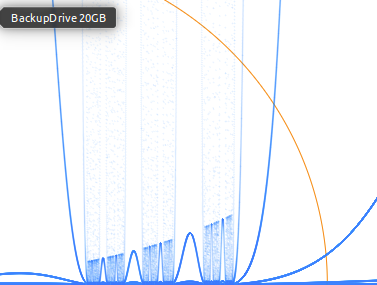
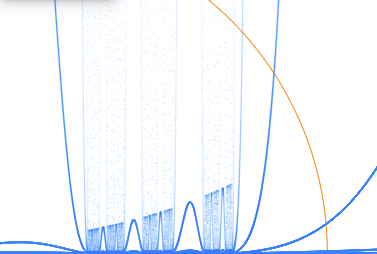
Fixed the raster offset issue. Added a lot of screenshots.

diff --git a/src/index-feigenbaum-demo.js b/src/index-feigenbaum-demo.js
@@ -30,8 +30,8 @@
 	    bp.config.autoCenterOffset = false; // Only once at initialization
 	    bp.config.preDraw = function() {
 		// pre draw
-		bp.draw.offset.x = bp.fill.offset.x = 0;
-		bp.draw.offset.y = bp.fill.offset.y = bp.canvasSize.height-1;
+		bp.draw.offset.x = bp.fill.offset.x = bp.grid.center.x = 0;
+		bp.draw.offset.y = bp.fill.offset.y = bp.grid.center.y = bp.canvasSize.height-1;
 	    };
 	    bp.config.postDraw = function() {
 		// post draw
@@ -288,8 +288,8 @@
 	    }
 
 	    function plotCollection( x, lambda, data ) {
-		bp.draw.offset.x = bp.fill.offset.x = 0;
-		bp.draw.offset.y = bp.fill.offset.y = 0;
+		bp.draw.offset.x = bp.fill.offset.x = bp.grid.center.x = 0;
+		bp.draw.offset.y = bp.fill.offset.y = bp.grid.center.y = 0;
 		if( data instanceof WeightedBalancedCollection ) {
 		    plotBalancedCollection( x, lambda, data, data.root );
 		} else {
@@ -305,8 +305,8 @@
 	    }
 
 	    function plotBalancedCollection( x, lambda, data, node ) {
-		bp.draw.offset.x = bp.fill.offset.x = 0;
-		bp.draw.offset.y = bp.fill.offset.y = 0;
+		bp.draw.offset.x = bp.fill.offset.x = bp.grid.center.x = 0;
+		bp.draw.offset.y = bp.fill.offset.y = bp.grid.center.y = 0;
 		if( !node )
 		    return;
 		

diff --git a/README.md b/README.md
@@ -34,7 +34,7 @@ This file is about 40MB large:
  * x(0) is 0.2 (this value does not seem to have any affect at all after some iterations)
 
 
-[Find a live demo here](https://www.int2byte.de/public/feigenbaum-plot/main.html "Feigenbaum bifurcation live demo") (better have a quick engine)
+[Find a live demo here](https://www.int2byte.de/public/feigenbaum-plot/main.html "Feigenbaum bifurcation live demo") (better have a quick machine)
 
 
 
